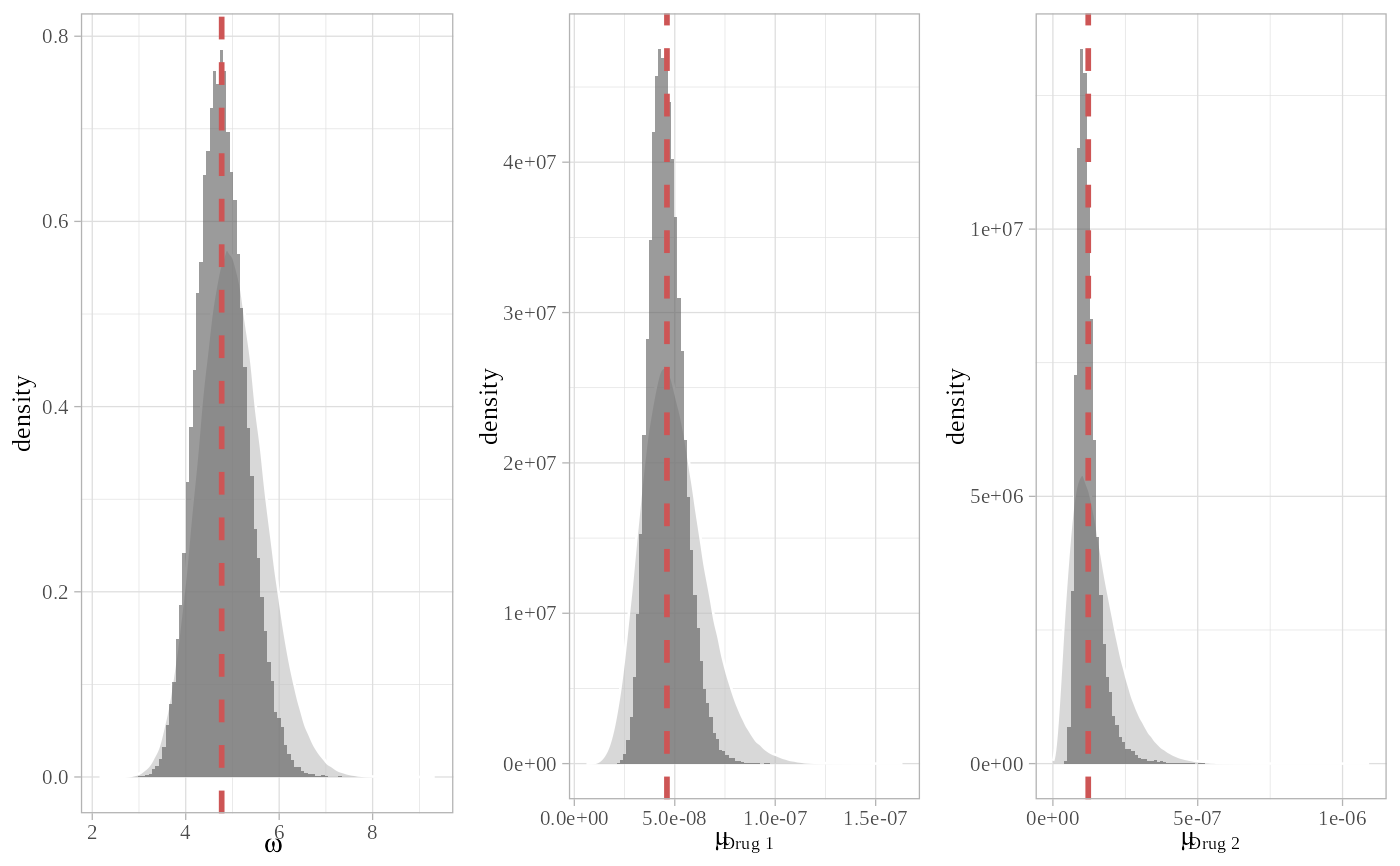
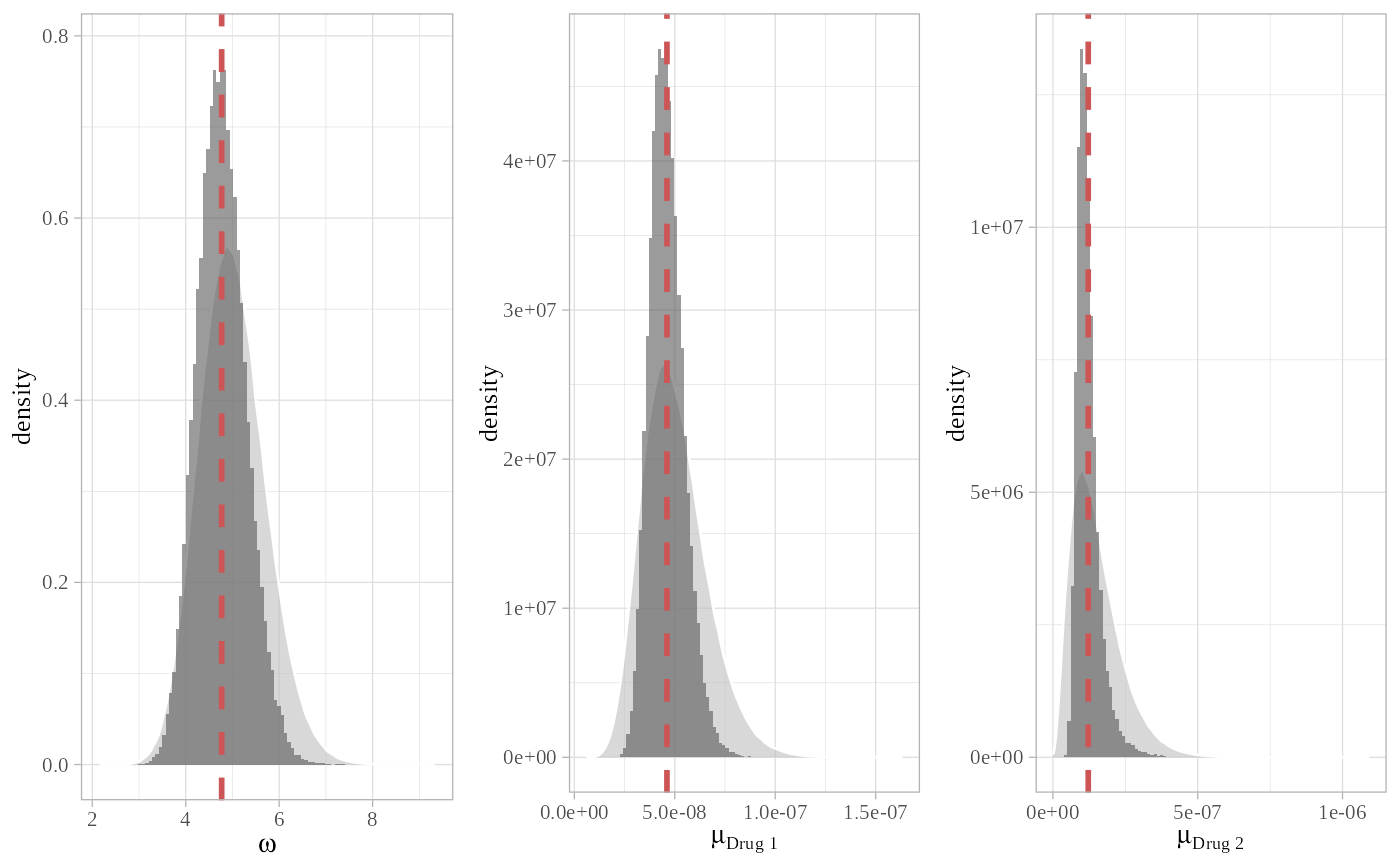
Deploying to gh-pages from @ caravagnalab/TOSCA@5b8a1e655bf0e0709501f8a275ec625be68dce8a 🚀

diff --git a/404.html b/404.html
@@ -12,8 +12,8 @@
 <link rel="icon" sizes="any" href="https://caravagnalab.github.io/TOSCA/favicon.ico">
 <link rel="manifest" href="https://caravagnalab.github.io/TOSCA/site.webmanifest">
 <script src="https://caravagnalab.github.io/TOSCA/deps/jquery-3.6.0/jquery-3.6.0.min.js"></script><meta name="viewport" content="width=device-width, initial-scale=1, shrink-to-fit=no">
-<link href="https://caravagnalab.github.io/TOSCA/deps/bootstrap-5.3.1/bootstrap.min.css" rel="stylesheet">
-<script src="https://caravagnalab.github.io/TOSCA/deps/bootstrap-5.3.1/bootstrap.bundle.min.js"></script><link href="https://caravagnalab.github.io/TOSCA/deps/font-awesome-6.5.2/css/all.min.css" rel="stylesheet">
+<link href="https://caravagnalab.github.io/TOSCA/deps/bootstrap-5.3.8/bootstrap.min.css" rel="stylesheet">
+<script src="https://caravagnalab.github.io/TOSCA/deps/bootstrap-5.3.8/bootstrap.bundle.min.js"></script><link href="https://caravagnalab.github.io/TOSCA/deps/font-awesome-6.5.2/css/all.min.css" rel="stylesheet">
 <link href="https://caravagnalab.github.io/TOSCA/deps/font-awesome-6.5.2/css/v4-shims.min.css" rel="stylesheet">
 <script src="https://caravagnalab.github.io/TOSCA/deps/headroom-0.11.0/headroom.min.js"></script><script src="https://caravagnalab.github.io/TOSCA/deps/headroom-0.11.0/jQuery.headroom.min.js"></script><script src="https://caravagnalab.github.io/TOSCA/deps/bootstrap-toc-1.0.1/bootstrap-toc.min.js"></script><script src="https://caravagnalab.github.io/TOSCA/deps/clipboard.js-2.0.11/clipboard.min.js"></script><script src="https://caravagnalab.github.io/TOSCA/deps/search-1.0.0/autocomplete.jquery.min.js"></script><script src="https://caravagnalab.github.io/TOSCA/deps/search-1.0.0/fuse.min.js"></script><script src="https://caravagnalab.github.io/TOSCA/deps/search-1.0.0/mark.min.js"></script><!-- pkgdown --><script src="https://caravagnalab.github.io/TOSCA/pkgdown.js"></script><meta property="og:title" content="Page not found (404)">
 <meta property="og:image" content="https://caravagnalab.github.io/TOSCA/logo.png">

diff --git a/articles/Timing_of_CNAs.html b/articles/Timing_of_CNAs.html
@@ -12,8 +12,8 @@
 <link rel="icon" sizes="any" href="../favicon.ico">
 <link rel="manifest" href="../site.webmanifest">
 <script src="../deps/jquery-3.6.0/jquery-3.6.0.min.js"></script><meta name="viewport" content="width=device-width, initial-scale=1, shrink-to-fit=no">
-<link href="../deps/bootstrap-5.3.1/bootstrap.min.css" rel="stylesheet">
-<script src="../deps/bootstrap-5.3.1/bootstrap.bundle.min.js"></script><link href="../deps/font-awesome-6.5.2/css/all.min.css" rel="stylesheet">
+<link href="../deps/bootstrap-5.3.8/bootstrap.min.css" rel="stylesheet">
+<script src="../deps/bootstrap-5.3.8/bootstrap.bundle.min.js"></script><link href="../deps/font-awesome-6.5.2/css/all.min.css" rel="stylesheet">
 <link href="../deps/font-awesome-6.5.2/css/v4-shims.min.css" rel="stylesheet">
 <script src="../deps/headroom-0.11.0/headroom.min.js"></script><script src="../deps/headroom-0.11.0/jQuery.headroom.min.js"></script><script src="../deps/bootstrap-toc-1.0.1/bootstrap-toc.min.js"></script><script src="../deps/clipboard.js-2.0.11/clipboard.min.js"></script><script src="../deps/search-1.0.0/autocomplete.jquery.min.js"></script><script src="../deps/search-1.0.0/fuse.min.js"></script><script src="../deps/search-1.0.0/mark.min.js"></script><!-- pkgdown --><script src="../pkgdown.js"></script><meta property="og:title" content="Timing of CNAs">
 </head>

diff --git a/articles/Timing_of_Driver.html b/articles/Timing_of_Driver.html
@@ -12,8 +12,8 @@
 <link rel="icon" sizes="any" href="../favicon.ico">
 <link rel="manifest" href="../site.webmanifest">
 <script src="../deps/jquery-3.6.0/jquery-3.6.0.min.js"></script><meta name="viewport" content="width=device-width, initial-scale=1, shrink-to-fit=no">
-<link href="../deps/bootstrap-5.3.1/bootstrap.min.css" rel="stylesheet">
-<script src="../deps/bootstrap-5.3.1/bootstrap.bundle.min.js"></script><link href="../deps/font-awesome-6.5.2/css/all.min.css" rel="stylesheet">
+<link href="../deps/bootstrap-5.3.8/bootstrap.min.css" rel="stylesheet">
+<script src="../deps/bootstrap-5.3.8/bootstrap.bundle.min.js"></script><link href="../deps/font-awesome-6.5.2/css/all.min.css" rel="stylesheet">
 <link href="../deps/font-awesome-6.5.2/css/v4-shims.min.css" rel="stylesheet">
 <script src="../deps/headroom-0.11.0/headroom.min.js"></script><script src="../deps/headroom-0.11.0/jQuery.headroom.min.js"></script><script src="../deps/bootstrap-toc-1.0.1/bootstrap-toc.min.js"></script><script src="../deps/clipboard.js-2.0.11/clipboard.min.js"></script><script src="../deps/search-1.0.0/autocomplete.jquery.min.js"></script><script src="../deps/search-1.0.0/fuse.min.js"></script><script src="../deps/search-1.0.0/mark.min.js"></script><!-- pkgdown --><script src="../pkgdown.js"></script><meta property="og:title" content="Timing of Driver">
 </head>

diff --git a/index.html b/index.html
@@ -12,8 +12,8 @@
 <link rel="icon" sizes="any" href="favicon.ico">
 <link rel="manifest" href="site.webmanifest">
 <script src="deps/jquery-3.6.0/jquery-3.6.0.min.js"></script><meta name="viewport" content="width=device-width, initial-scale=1, shrink-to-fit=no">
-<link href="deps/bootstrap-5.3.1/bootstrap.min.css" rel="stylesheet">
-<script src="deps/bootstrap-5.3.1/bootstrap.bundle.min.js"></script><link href="deps/font-awesome-6.5.2/css/all.min.css" rel="stylesheet">
+<link href="deps/bootstrap-5.3.8/bootstrap.min.css" rel="stylesheet">
+<script src="deps/bootstrap-5.3.8/bootstrap.bundle.min.js"></script><link href="deps/font-awesome-6.5.2/css/all.min.css" rel="stylesheet">
 <link href="deps/font-awesome-6.5.2/css/v4-shims.min.css" rel="stylesheet">
 <script src="deps/headroom-0.11.0/headroom.min.js"></script><script src="deps/headroom-0.11.0/jQuery.headroom.min.js"></script><script src="deps/bootstrap-toc-1.0.1/bootstrap-toc.min.js"></script><script src="deps/clipboard.js-2.0.11/clipboard.min.js"></script><script src="deps/search-1.0.0/autocomplete.jquery.min.js"></script><script src="deps/search-1.0.0/fuse.min.js"></script><script src="deps/search-1.0.0/mark.min.js"></script><!-- pkgdown --><script src="pkgdown.js"></script><meta property="og:title" content="TOSCA - Timing Of Somatic Copy number Alterations">
 <meta name="description" content="TOSCA is a packege for inferring the timing in real time of clonal and subclonal somatic copy numbers (SCNA) of type 2:0, 2:1 and 2:2, from WGS longitudinal data.">

diff --git a/reference/plot_ppc.html b/reference/plot_ppc.html
@@ -1,5 +1,5 @@
 <!DOCTYPE html>
-<!-- Generated by pkgdown: do not edit by hand --><html lang="en"><head><meta http-equiv="Content-Type" content="text/html; charset=UTF-8"><meta charset="utf-8"><meta http-equiv="X-UA-Compatible" content="IE=edge"><meta name="viewport" content="width=device-width, initial-scale=1, shrink-to-fit=no"><title>Plot posterior predictive checks — plot_ppc • TOSCA</title><!-- favicons --><link rel="icon" type="image/png" sizes="96x96" href="../favicon-96x96.png"><link rel="icon" type="”image/svg+xml”" href="../favicon.svg"><link rel="apple-touch-icon" sizes="180x180" href="../apple-touch-icon.png"><link rel="icon" sizes="any" href="../favicon.ico"><link rel="manifest" href="../site.webmanifest"><script src="../deps/jquery-3.6.0/jquery-3.6.0.min.js"></script><meta name="viewport" content="width=device-width, initial-scale=1, shrink-to-fit=no"><link href="../deps/bootstrap-5.3.1/bootstrap.min.css" rel="stylesheet"><script src="../deps/bootstrap-5.3.1/bootstrap.bundle.min.js"></script><link href="../deps/font-awesome-6.5.2/css/all.min.css" rel="stylesheet"><link href="../deps/font-awesome-6.5.2/css/v4-shims.min.css" rel="stylesheet"><script src="../deps/headroom-0.11.0/headroom.min.js"></script><script src="../deps/headroom-0.11.0/jQuery.headroom.min.js"></script><script src="../deps/bootstrap-toc-1.0.1/bootstrap-toc.min.js"></script><script src="../deps/clipboard.js-2.0.11/clipboard.min.js"></script><script src="../deps/search-1.0.0/autocomplete.jquery.min.js"></script><script src="../deps/search-1.0.0/fuse.min.js"></script><script src="../deps/search-1.0.0/mark.min.js"></script><!-- pkgdown --><script src="../pkgdown.js"></script><meta property="og:title" content="Plot posterior predictive checks — plot_ppc"><meta name="description" content="Plot posterior predictive checks"><meta property="og:description" content="Plot posterior predictive checks"><meta property="og:image" content="https://caravagnalab.github.io/TOSCA/logo.png"></head><body>
+<!-- Generated by pkgdown: do not edit by hand --><html lang="en"><head><meta http-equiv="Content-Type" content="text/html; charset=UTF-8"><meta charset="utf-8"><meta http-equiv="X-UA-Compatible" content="IE=edge"><meta name="viewport" content="width=device-width, initial-scale=1, shrink-to-fit=no"><title>Plot posterior predictive checks — plot_ppc • TOSCA</title><!-- favicons --><link rel="icon" type="image/png" sizes="96x96" href="../favicon-96x96.png"><link rel="icon" type="”image/svg+xml”" href="../favicon.svg"><link rel="apple-touch-icon" sizes="180x180" href="../apple-touch-icon.png"><link rel="icon" sizes="any" href="../favicon.ico"><link rel="manifest" href="../site.webmanifest"><script src="../deps/jquery-3.6.0/jquery-3.6.0.min.js"></script><meta name="viewport" content="width=device-width, initial-scale=1, shrink-to-fit=no"><link href="../deps/bootstrap-5.3.8/bootstrap.min.css" rel="stylesheet"><script src="../deps/bootstrap-5.3.8/bootstrap.bundle.min.js"></script><link href="../deps/font-awesome-6.5.2/css/all.min.css" rel="stylesheet"><link href="../deps/font-awesome-6.5.2/css/v4-shims.min.css" rel="stylesheet"><script src="../deps/headroom-0.11.0/headroom.min.js"></script><script src="../deps/headroom-0.11.0/jQuery.headroom.min.js"></script><script src="../deps/bootstrap-toc-1.0.1/bootstrap-toc.min.js"></script><script src="../deps/clipboard.js-2.0.11/clipboard.min.js"></script><script src="../deps/search-1.0.0/autocomplete.jquery.min.js"></script><script src="../deps/search-1.0.0/fuse.min.js"></script><script src="../deps/search-1.0.0/mark.min.js"></script><!-- pkgdown --><script src="../pkgdown.js"></script><meta property="og:title" content="Plot posterior predictive checks — plot_ppc"><meta name="description" content="Plot posterior predictive checks"><meta property="og:description" content="Plot posterior predictive checks"><meta property="og:image" content="https://caravagnalab.github.io/TOSCA/logo.png"></head><body>
     <a href="#main" class="visually-hidden-focusable">Skip to contents</a>
 
 
@@ -100,7 +100,6 @@
 <span class="r-wrn co"><span class="r-pr">#&gt;</span> <span style="color: #BB0000;">✖</span> Problematic argument:</span>
 <span class="r-wrn co"><span class="r-pr">#&gt;</span> <span style="color: #00BBBB;">•</span> size = 0.05</span>
 <span class="r-wrn co"><span class="r-pr">#&gt;</span> <span style="color: #00BBBB;">ℹ</span> Did you misspell an argument name?</span>
-<span class="r-wrn co"><span class="r-pr">#&gt;</span> <span class="warning">Warning: </span>font family 'Times New Roman' not found in PostScript font database</span>
 <span class="r-wrn co"><span class="r-pr">#&gt;</span> <span class="warning">Warning: </span>font family 'Times New Roman' not found in PostScript font database</span>
 <span class="r-wrn co"><span class="r-pr">#&gt;</span> <span class="warning">Warning: </span>font family 'Times New Roman' not found in PostScript font database</span>
 <span class="r-wrn co"><span class="r-pr">#&gt;</span> <span class="warning">Warning: </span>font family 'Times New Roman' not found in PostScript font database</span>

diff --git a/LICENSE-text.html b/LICENSE-text.html
@@ -1,5 +1,5 @@
 <!DOCTYPE html>
-<!-- Generated by pkgdown: do not edit by hand --><html lang="en"><head><meta http-equiv="Content-Type" content="text/html; charset=UTF-8"><meta charset="utf-8"><meta http-equiv="X-UA-Compatible" content="IE=edge"><meta name="viewport" content="width=device-width, initial-scale=1, shrink-to-fit=no"><title>License • TOSCA</title><!-- favicons --><link rel="icon" type="image/png" sizes="96x96" href="favicon-96x96.png"><link rel="icon" type="”image/svg+xml”" href="favicon.svg"><link rel="apple-touch-icon" sizes="180x180" href="apple-touch-icon.png"><link rel="icon" sizes="any" href="favicon.ico"><link rel="manifest" href="site.webmanifest"><script src="deps/jquery-3.6.0/jquery-3.6.0.min.js"></script><meta name="viewport" content="width=device-width, initial-scale=1, shrink-to-fit=no"><link href="deps/bootstrap-5.3.1/bootstrap.min.css" rel="stylesheet"><script src="deps/bootstrap-5.3.1/bootstrap.bundle.min.js"></script><link href="deps/font-awesome-6.5.2/css/all.min.css" rel="stylesheet"><link href="deps/font-awesome-6.5.2/css/v4-shims.min.css" rel="stylesheet"><script src="deps/headroom-0.11.0/headroom.min.js"></script><script src="deps/headroom-0.11.0/jQuery.headroom.min.js"></script><script src="deps/bootstrap-toc-1.0.1/bootstrap-toc.min.js"></script><script src="deps/clipboard.js-2.0.11/clipboard.min.js"></script><script src="deps/search-1.0.0/autocomplete.jquery.min.js"></script><script src="deps/search-1.0.0/fuse.min.js"></script><script src="deps/search-1.0.0/mark.min.js"></script><!-- pkgdown --><script src="pkgdown.js"></script><meta property="og:title" content="License"><meta property="og:image" content="https://caravagnalab.github.io/TOSCA/logo.png"></head><body>
+<!-- Generated by pkgdown: do not edit by hand --><html lang="en"><head><meta http-equiv="Content-Type" content="text/html; charset=UTF-8"><meta charset="utf-8"><meta http-equiv="X-UA-Compatible" content="IE=edge"><meta name="viewport" content="width=device-width, initial-scale=1, shrink-to-fit=no"><title>License • TOSCA</title><!-- favicons --><link rel="icon" type="image/png" sizes="96x96" href="favicon-96x96.png"><link rel="icon" type="”image/svg+xml”" href="favicon.svg"><link rel="apple-touch-icon" sizes="180x180" href="apple-touch-icon.png"><link rel="icon" sizes="any" href="favicon.ico"><link rel="manifest" href="site.webmanifest"><script src="deps/jquery-3.6.0/jquery-3.6.0.min.js"></script><meta name="viewport" content="width=device-width, initial-scale=1, shrink-to-fit=no"><link href="deps/bootstrap-5.3.8/bootstrap.min.css" rel="stylesheet"><script src="deps/bootstrap-5.3.8/bootstrap.bundle.min.js"></script><link href="deps/font-awesome-6.5.2/css/all.min.css" rel="stylesheet"><link href="deps/font-awesome-6.5.2/css/v4-shims.min.css" rel="stylesheet"><script src="deps/headroom-0.11.0/headroom.min.js"></script><script src="deps/headroom-0.11.0/jQuery.headroom.min.js"></script><script src="deps/bootstrap-toc-1.0.1/bootstrap-toc.min.js"></script><script src="deps/clipboard.js-2.0.11/clipboard.min.js"></script><script src="deps/search-1.0.0/autocomplete.jquery.min.js"></script><script src="deps/search-1.0.0/fuse.min.js"></script><script src="deps/search-1.0.0/mark.min.js"></script><!-- pkgdown --><script src="pkgdown.js"></script><meta property="og:title" content="License"><meta property="og:image" content="https://caravagnalab.github.io/TOSCA/logo.png"></head><body>
     <a href="#main" class="visually-hidden-focusable">Skip to contents</a>
 
 

diff --git a/LICENSE.html b/LICENSE.html
@@ -1,5 +1,5 @@
 <!DOCTYPE html>
-<!-- Generated by pkgdown: do not edit by hand --><html lang="en"><head><meta http-equiv="Content-Type" content="text/html; charset=UTF-8"><meta charset="utf-8"><meta http-equiv="X-UA-Compatible" content="IE=edge"><meta name="viewport" content="width=device-width, initial-scale=1, shrink-to-fit=no"><title>MIT License • TOSCA</title><!-- favicons --><link rel="icon" type="image/png" sizes="96x96" href="favicon-96x96.png"><link rel="icon" type="”image/svg+xml”" href="favicon.svg"><link rel="apple-touch-icon" sizes="180x180" href="apple-touch-icon.png"><link rel="icon" sizes="any" href="favicon.ico"><link rel="manifest" href="site.webmanifest"><script src="deps/jquery-3.6.0/jquery-3.6.0.min.js"></script><meta name="viewport" content="width=device-width, initial-scale=1, shrink-to-fit=no"><link href="deps/bootstrap-5.3.1/bootstrap.min.css" rel="stylesheet"><script src="deps/bootstrap-5.3.1/bootstrap.bundle.min.js"></script><link href="deps/font-awesome-6.5.2/css/all.min.css" rel="stylesheet"><link href="deps/font-awesome-6.5.2/css/v4-shims.min.css" rel="stylesheet"><script src="deps/headroom-0.11.0/headroom.min.js"></script><script src="deps/headroom-0.11.0/jQuery.headroom.min.js"></script><script src="deps/bootstrap-toc-1.0.1/bootstrap-toc.min.js"></script><script src="deps/clipboard.js-2.0.11/clipboard.min.js"></script><script src="deps/search-1.0.0/autocomplete.jquery.min.js"></script><script src="deps/search-1.0.0/fuse.min.js"></script><script src="deps/search-1.0.0/mark.min.js"></script><!-- pkgdown --><script src="pkgdown.js"></script><meta property="og:title" content="MIT License"><meta property="og:image" content="https://caravagnalab.github.io/TOSCA/logo.png"></head><body>
+<!-- Generated by pkgdown: do not edit by hand --><html lang="en"><head><meta http-equiv="Content-Type" content="text/html; charset=UTF-8"><meta charset="utf-8"><meta http-equiv="X-UA-Compatible" content="IE=edge"><meta name="viewport" content="width=device-width, initial-scale=1, shrink-to-fit=no"><title>MIT License • TOSCA</title><!-- favicons --><link rel="icon" type="image/png" sizes="96x96" href="favicon-96x96.png"><link rel="icon" type="”image/svg+xml”" href="favicon.svg"><link rel="apple-touch-icon" sizes="180x180" href="apple-touch-icon.png"><link rel="icon" sizes="any" href="favicon.ico"><link rel="manifest" href="site.webmanifest"><script src="deps/jquery-3.6.0/jquery-3.6.0.min.js"></script><meta name="viewport" content="width=device-width, initial-scale=1, shrink-to-fit=no"><link href="deps/bootstrap-5.3.8/bootstrap.min.css" rel="stylesheet"><script src="deps/bootstrap-5.3.8/bootstrap.bundle.min.js"></script><link href="deps/font-awesome-6.5.2/css/all.min.css" rel="stylesheet"><link href="deps/font-awesome-6.5.2/css/v4-shims.min.css" rel="stylesheet"><script src="deps/headroom-0.11.0/headroom.min.js"></script><script src="deps/headroom-0.11.0/jQuery.headroom.min.js"></script><script src="deps/bootstrap-toc-1.0.1/bootstrap-toc.min.js"></script><script src="deps/clipboard.js-2.0.11/clipboard.min.js"></script><script src="deps/search-1.0.0/autocomplete.jquery.min.js"></script><script src="deps/search-1.0.0/fuse.min.js"></script><script src="deps/search-1.0.0/mark.min.js"></script><!-- pkgdown --><script src="pkgdown.js"></script><meta property="og:title" content="MIT License"><meta property="og:image" content="https://caravagnalab.github.io/TOSCA/logo.png"></head><body>
     <a href="#main" class="visually-hidden-focusable">Skip to contents</a>
 
 

diff --git a/articles/index.html b/articles/index.html
@@ -1,5 +1,5 @@
 <!DOCTYPE html>
-<!-- Generated by pkgdown: do not edit by hand --><html lang="en"><head><meta http-equiv="Content-Type" content="text/html; charset=UTF-8"><meta charset="utf-8"><meta http-equiv="X-UA-Compatible" content="IE=edge"><meta name="viewport" content="width=device-width, initial-scale=1, shrink-to-fit=no"><title>Articles • TOSCA</title><!-- favicons --><link rel="icon" type="image/png" sizes="96x96" href="../favicon-96x96.png"><link rel="icon" type="”image/svg+xml”" href="../favicon.svg"><link rel="apple-touch-icon" sizes="180x180" href="../apple-touch-icon.png"><link rel="icon" sizes="any" href="../favicon.ico"><link rel="manifest" href="../site.webmanifest"><script src="../deps/jquery-3.6.0/jquery-3.6.0.min.js"></script><meta name="viewport" content="width=device-width, initial-scale=1, shrink-to-fit=no"><link href="../deps/bootstrap-5.3.1/bootstrap.min.css" rel="stylesheet"><script src="../deps/bootstrap-5.3.1/bootstrap.bundle.min.js"></script><link href="../deps/font-awesome-6.5.2/css/all.min.css" rel="stylesheet"><link href="../deps/font-awesome-6.5.2/css/v4-shims.min.css" rel="stylesheet"><script src="../deps/headroom-0.11.0/headroom.min.js"></script><script src="../deps/headroom-0.11.0/jQuery.headroom.min.js"></script><script src="../deps/bootstrap-toc-1.0.1/bootstrap-toc.min.js"></script><script src="../deps/clipboard.js-2.0.11/clipboard.min.js"></script><script src="../deps/search-1.0.0/autocomplete.jquery.min.js"></script><script src="../deps/search-1.0.0/fuse.min.js"></script><script src="../deps/search-1.0.0/mark.min.js"></script><!-- pkgdown --><script src="../pkgdown.js"></script><meta property="og:title" content="Articles"><meta property="og:image" content="https://caravagnalab.github.io/TOSCA/logo.png"></head><body>
+<!-- Generated by pkgdown: do not edit by hand --><html lang="en"><head><meta http-equiv="Content-Type" content="text/html; charset=UTF-8"><meta charset="utf-8"><meta http-equiv="X-UA-Compatible" content="IE=edge"><meta name="viewport" content="width=device-width, initial-scale=1, shrink-to-fit=no"><title>Articles • TOSCA</title><!-- favicons --><link rel="icon" type="image/png" sizes="96x96" href="../favicon-96x96.png"><link rel="icon" type="”image/svg+xml”" href="../favicon.svg"><link rel="apple-touch-icon" sizes="180x180" href="../apple-touch-icon.png"><link rel="icon" sizes="any" href="../favicon.ico"><link rel="manifest" href="../site.webmanifest"><script src="../deps/jquery-3.6.0/jquery-3.6.0.min.js"></script><meta name="viewport" content="width=device-width, initial-scale=1, shrink-to-fit=no"><link href="../deps/bootstrap-5.3.8/bootstrap.min.css" rel="stylesheet"><script src="../deps/bootstrap-5.3.8/bootstrap.bundle.min.js"></script><link href="../deps/font-awesome-6.5.2/css/all.min.css" rel="stylesheet"><link href="../deps/font-awesome-6.5.2/css/v4-shims.min.css" rel="stylesheet"><script src="../deps/headroom-0.11.0/headroom.min.js"></script><script src="../deps/headroom-0.11.0/jQuery.headroom.min.js"></script><script src="../deps/bootstrap-toc-1.0.1/bootstrap-toc.min.js"></script><script src="../deps/clipboard.js-2.0.11/clipboard.min.js"></script><script src="../deps/search-1.0.0/autocomplete.jquery.min.js"></script><script src="../deps/search-1.0.0/fuse.min.js"></script><script src="../deps/search-1.0.0/mark.min.js"></script><!-- pkgdown --><script src="../pkgdown.js"></script><meta property="og:title" content="Articles"><meta property="og:image" content="https://caravagnalab.github.io/TOSCA/logo.png"></head><body>
     <a href="#main" class="visually-hidden-focusable">Skip to contents</a>
 
 

diff --git a/authors.html b/authors.html
@@ -1,5 +1,5 @@
 <!DOCTYPE html>
-<!-- Generated by pkgdown: do not edit by hand --><html lang="en"><head><meta http-equiv="Content-Type" content="text/html; charset=UTF-8"><meta charset="utf-8"><meta http-equiv="X-UA-Compatible" content="IE=edge"><meta name="viewport" content="width=device-width, initial-scale=1, shrink-to-fit=no"><title>Authors and Citation • TOSCA</title><!-- favicons --><link rel="icon" type="image/png" sizes="96x96" href="favicon-96x96.png"><link rel="icon" type="”image/svg+xml”" href="favicon.svg"><link rel="apple-touch-icon" sizes="180x180" href="apple-touch-icon.png"><link rel="icon" sizes="any" href="favicon.ico"><link rel="manifest" href="site.webmanifest"><script src="deps/jquery-3.6.0/jquery-3.6.0.min.js"></script><meta name="viewport" content="width=device-width, initial-scale=1, shrink-to-fit=no"><link href="deps/bootstrap-5.3.1/bootstrap.min.css" rel="stylesheet"><script src="deps/bootstrap-5.3.1/bootstrap.bundle.min.js"></script><link href="deps/font-awesome-6.5.2/css/all.min.css" rel="stylesheet"><link href="deps/font-awesome-6.5.2/css/v4-shims.min.css" rel="stylesheet"><script src="deps/headroom-0.11.0/headroom.min.js"></script><script src="deps/headroom-0.11.0/jQuery.headroom.min.js"></script><script src="deps/bootstrap-toc-1.0.1/bootstrap-toc.min.js"></script><script src="deps/clipboard.js-2.0.11/clipboard.min.js"></script><script src="deps/search-1.0.0/autocomplete.jquery.min.js"></script><script src="deps/search-1.0.0/fuse.min.js"></script><script src="deps/search-1.0.0/mark.min.js"></script><!-- pkgdown --><script src="pkgdown.js"></script><meta property="og:title" content="Authors and Citation"><meta property="og:image" content="https://caravagnalab.github.io/TOSCA/logo.png"></head><body>
+<!-- Generated by pkgdown: do not edit by hand --><html lang="en"><head><meta http-equiv="Content-Type" content="text/html; charset=UTF-8"><meta charset="utf-8"><meta http-equiv="X-UA-Compatible" content="IE=edge"><meta name="viewport" content="width=device-width, initial-scale=1, shrink-to-fit=no"><title>Authors and Citation • TOSCA</title><!-- favicons --><link rel="icon" type="image/png" sizes="96x96" href="favicon-96x96.png"><link rel="icon" type="”image/svg+xml”" href="favicon.svg"><link rel="apple-touch-icon" sizes="180x180" href="apple-touch-icon.png"><link rel="icon" sizes="any" href="favicon.ico"><link rel="manifest" href="site.webmanifest"><script src="deps/jquery-3.6.0/jquery-3.6.0.min.js"></script><meta name="viewport" content="width=device-width, initial-scale=1, shrink-to-fit=no"><link href="deps/bootstrap-5.3.8/bootstrap.min.css" rel="stylesheet"><script src="deps/bootstrap-5.3.8/bootstrap.bundle.min.js"></script><link href="deps/font-awesome-6.5.2/css/all.min.css" rel="stylesheet"><link href="deps/font-awesome-6.5.2/css/v4-shims.min.css" rel="stylesheet"><script src="deps/headroom-0.11.0/headroom.min.js"></script><script src="deps/headroom-0.11.0/jQuery.headroom.min.js"></script><script src="deps/bootstrap-toc-1.0.1/bootstrap-toc.min.js"></script><script src="deps/clipboard.js-2.0.11/clipboard.min.js"></script><script src="deps/search-1.0.0/autocomplete.jquery.min.js"></script><script src="deps/search-1.0.0/fuse.min.js"></script><script src="deps/search-1.0.0/mark.min.js"></script><!-- pkgdown --><script src="pkgdown.js"></script><meta property="og:title" content="Authors and Citation"><meta property="og:image" content="https://caravagnalab.github.io/TOSCA/logo.png"></head><body>
     <a href="#main" class="visually-hidden-focusable">Skip to contents</a>
 
 

diff --git a/reference/D9MRCY.html b/reference/D9MRCY.html
@@ -1,5 +1,5 @@
 <!DOCTYPE html>
-<!-- Generated by pkgdown: do not edit by hand --><html lang="en"><head><meta http-equiv="Content-Type" content="text/html; charset=UTF-8"><meta charset="utf-8"><meta http-equiv="X-UA-Compatible" content="IE=edge"><meta name="viewport" content="width=device-width, initial-scale=1, shrink-to-fit=no"><title>Input data for patient D9MRCY — D9MRCY • TOSCA</title><!-- favicons --><link rel="icon" type="image/png" sizes="96x96" href="../favicon-96x96.png"><link rel="icon" type="”image/svg+xml”" href="../favicon.svg"><link rel="apple-touch-icon" sizes="180x180" href="../apple-touch-icon.png"><link rel="icon" sizes="any" href="../favicon.ico"><link rel="manifest" href="../site.webmanifest"><script src="../deps/jquery-3.6.0/jquery-3.6.0.min.js"></script><meta name="viewport" content="width=device-width, initial-scale=1, shrink-to-fit=no"><link href="../deps/bootstrap-5.3.1/bootstrap.min.css" rel="stylesheet"><script src="../deps/bootstrap-5.3.1/bootstrap.bundle.min.js"></script><link href="../deps/font-awesome-6.5.2/css/all.min.css" rel="stylesheet"><link href="../deps/font-awesome-6.5.2/css/v4-shims.min.css" rel="stylesheet"><script src="../deps/headroom-0.11.0/headroom.min.js"></script><script src="../deps/headroom-0.11.0/jQuery.headroom.min.js"></script><script src="../deps/bootstrap-toc-1.0.1/bootstrap-toc.min.js"></script><script src="../deps/clipboard.js-2.0.11/clipboard.min.js"></script><script src="../deps/search-1.0.0/autocomplete.jquery.min.js"></script><script src="../deps/search-1.0.0/fuse.min.js"></script><script src="../deps/search-1.0.0/mark.min.js"></script><!-- pkgdown --><script src="../pkgdown.js"></script><meta property="og:title" content="Input data for patient D9MRCY — D9MRCY"><meta name="description" content="Input data for patient D9MRCY"><meta property="og:description" content="Input data for patient D9MRCY"><meta property="og:image" content="https://caravagnalab.github.io/TOSCA/logo.png"></head><body>
+<!-- Generated by pkgdown: do not edit by hand --><html lang="en"><head><meta http-equiv="Content-Type" content="text/html; charset=UTF-8"><meta charset="utf-8"><meta http-equiv="X-UA-Compatible" content="IE=edge"><meta name="viewport" content="width=device-width, initial-scale=1, shrink-to-fit=no"><title>Input data for patient D9MRCY — D9MRCY • TOSCA</title><!-- favicons --><link rel="icon" type="image/png" sizes="96x96" href="../favicon-96x96.png"><link rel="icon" type="”image/svg+xml”" href="../favicon.svg"><link rel="apple-touch-icon" sizes="180x180" href="../apple-touch-icon.png"><link rel="icon" sizes="any" href="../favicon.ico"><link rel="manifest" href="../site.webmanifest"><script src="../deps/jquery-3.6.0/jquery-3.6.0.min.js"></script><meta name="viewport" content="width=device-width, initial-scale=1, shrink-to-fit=no"><link href="../deps/bootstrap-5.3.8/bootstrap.min.css" rel="stylesheet"><script src="../deps/bootstrap-5.3.8/bootstrap.bundle.min.js"></script><link href="../deps/font-awesome-6.5.2/css/all.min.css" rel="stylesheet"><link href="../deps/font-awesome-6.5.2/css/v4-shims.min.css" rel="stylesheet"><script src="../deps/headroom-0.11.0/headroom.min.js"></script><script src="../deps/headroom-0.11.0/jQuery.headroom.min.js"></script><script src="../deps/bootstrap-toc-1.0.1/bootstrap-toc.min.js"></script><script src="../deps/clipboard.js-2.0.11/clipboard.min.js"></script><script src="../deps/search-1.0.0/autocomplete.jquery.min.js"></script><script src="../deps/search-1.0.0/fuse.min.js"></script><script src="../deps/search-1.0.0/mark.min.js"></script><!-- pkgdown --><script src="../pkgdown.js"></script><meta property="og:title" content="Input data for patient D9MRCY — D9MRCY"><meta name="description" content="Input data for patient D9MRCY"><meta property="og:description" content="Input data for patient D9MRCY"><meta property="og:image" content="https://caravagnalab.github.io/TOSCA/logo.png"></head><body>
     <a href="#main" class="visually-hidden-focusable">Skip to contents</a>
 
 

diff --git a/reference/TOSCA-package-imports.html b/reference/TOSCA-package-imports.html
@@ -1,5 +1,5 @@
 <!DOCTYPE html>
-<!-- Generated by pkgdown: do not edit by hand --><html lang="en"><head><meta http-equiv="Content-Type" content="text/html; charset=UTF-8"><meta charset="utf-8"><meta http-equiv="X-UA-Compatible" content="IE=edge"><meta name="viewport" content="width=device-width, initial-scale=1, shrink-to-fit=no"><title>Package-level imports — TOSCA-package-imports • TOSCA</title><!-- favicons --><link rel="icon" type="image/png" sizes="96x96" href="../favicon-96x96.png"><link rel="icon" type="”image/svg+xml”" href="../favicon.svg"><link rel="apple-touch-icon" sizes="180x180" href="../apple-touch-icon.png"><link rel="icon" sizes="any" href="../favicon.ico"><link rel="manifest" href="../site.webmanifest"><script src="../deps/jquery-3.6.0/jquery-3.6.0.min.js"></script><meta name="viewport" content="width=device-width, initial-scale=1, shrink-to-fit=no"><link href="../deps/bootstrap-5.3.1/bootstrap.min.css" rel="stylesheet"><script src="../deps/bootstrap-5.3.1/bootstrap.bundle.min.js"></script><link href="../deps/font-awesome-6.5.2/css/all.min.css" rel="stylesheet"><link href="../deps/font-awesome-6.5.2/css/v4-shims.min.css" rel="stylesheet"><script src="../deps/headroom-0.11.0/headroom.min.js"></script><script src="../deps/headroom-0.11.0/jQuery.headroom.min.js"></script><script src="../deps/bootstrap-toc-1.0.1/bootstrap-toc.min.js"></script><script src="../deps/clipboard.js-2.0.11/clipboard.min.js"></script><script src="../deps/search-1.0.0/autocomplete.jquery.min.js"></script><script src="../deps/search-1.0.0/fuse.min.js"></script><script src="../deps/search-1.0.0/mark.min.js"></script><!-- pkgdown --><script src="../pkgdown.js"></script><meta property="og:title" content="Package-level imports — TOSCA-package-imports"><meta name="description" content="Import functions for all package functions.
+<!-- Generated by pkgdown: do not edit by hand --><html lang="en"><head><meta http-equiv="Content-Type" content="text/html; charset=UTF-8"><meta charset="utf-8"><meta http-equiv="X-UA-Compatible" content="IE=edge"><meta name="viewport" content="width=device-width, initial-scale=1, shrink-to-fit=no"><title>Package-level imports — TOSCA-package-imports • TOSCA</title><!-- favicons --><link rel="icon" type="image/png" sizes="96x96" href="../favicon-96x96.png"><link rel="icon" type="”image/svg+xml”" href="../favicon.svg"><link rel="apple-touch-icon" sizes="180x180" href="../apple-touch-icon.png"><link rel="icon" sizes="any" href="../favicon.ico"><link rel="manifest" href="../site.webmanifest"><script src="../deps/jquery-3.6.0/jquery-3.6.0.min.js"></script><meta name="viewport" content="width=device-width, initial-scale=1, shrink-to-fit=no"><link href="../deps/bootstrap-5.3.8/bootstrap.min.css" rel="stylesheet"><script src="../deps/bootstrap-5.3.8/bootstrap.bundle.min.js"></script><link href="../deps/font-awesome-6.5.2/css/all.min.css" rel="stylesheet"><link href="../deps/font-awesome-6.5.2/css/v4-shims.min.css" rel="stylesheet"><script src="../deps/headroom-0.11.0/headroom.min.js"></script><script src="../deps/headroom-0.11.0/jQuery.headroom.min.js"></script><script src="../deps/bootstrap-toc-1.0.1/bootstrap-toc.min.js"></script><script src="../deps/clipboard.js-2.0.11/clipboard.min.js"></script><script src="../deps/search-1.0.0/autocomplete.jquery.min.js"></script><script src="../deps/search-1.0.0/fuse.min.js"></script><script src="../deps/search-1.0.0/mark.min.js"></script><!-- pkgdown --><script src="../pkgdown.js"></script><meta property="og:title" content="Package-level imports — TOSCA-package-imports"><meta name="description" content="Import functions for all package functions.
 This file is only used to generate NAMESPACE imports."><meta property="og:description" content="Import functions for all package functions.
 This file is only used to generate NAMESPACE imports."><meta property="og:image" content="https://caravagnalab.github.io/TOSCA/logo.png"></head><body>
     <a href="#main" class="visually-hidden-focusable">Skip to contents</a>

diff --git a/reference/UPN06.html b/reference/UPN06.html
@@ -1,5 +1,5 @@
 <!DOCTYPE html>
-<!-- Generated by pkgdown: do not edit by hand --><html lang="en"><head><meta http-equiv="Content-Type" content="text/html; charset=UTF-8"><meta charset="utf-8"><meta http-equiv="X-UA-Compatible" content="IE=edge"><meta name="viewport" content="width=device-width, initial-scale=1, shrink-to-fit=no"><title>Input data for patient UPN06 — UPN06 • TOSCA</title><!-- favicons --><link rel="icon" type="image/png" sizes="96x96" href="../favicon-96x96.png"><link rel="icon" type="”image/svg+xml”" href="../favicon.svg"><link rel="apple-touch-icon" sizes="180x180" href="../apple-touch-icon.png"><link rel="icon" sizes="any" href="../favicon.ico"><link rel="manifest" href="../site.webmanifest"><script src="../deps/jquery-3.6.0/jquery-3.6.0.min.js"></script><meta name="viewport" content="width=device-width, initial-scale=1, shrink-to-fit=no"><link href="../deps/bootstrap-5.3.1/bootstrap.min.css" rel="stylesheet"><script src="../deps/bootstrap-5.3.1/bootstrap.bundle.min.js"></script><link href="../deps/font-awesome-6.5.2/css/all.min.css" rel="stylesheet"><link href="../deps/font-awesome-6.5.2/css/v4-shims.min.css" rel="stylesheet"><script src="../deps/headroom-0.11.0/headroom.min.js"></script><script src="../deps/headroom-0.11.0/jQuery.headroom.min.js"></script><script src="../deps/bootstrap-toc-1.0.1/bootstrap-toc.min.js"></script><script src="../deps/clipboard.js-2.0.11/clipboard.min.js"></script><script src="../deps/search-1.0.0/autocomplete.jquery.min.js"></script><script src="../deps/search-1.0.0/fuse.min.js"></script><script src="../deps/search-1.0.0/mark.min.js"></script><!-- pkgdown --><script src="../pkgdown.js"></script><meta property="og:title" content="Input data for patient UPN06 — UPN06"><meta name="description" content="Input data for patient UPN06"><meta property="og:description" content="Input data for patient UPN06"><meta property="og:image" content="https://caravagnalab.github.io/TOSCA/logo.png"></head><body>
+<!-- Generated by pkgdown: do not edit by hand --><html lang="en"><head><meta http-equiv="Content-Type" content="text/html; charset=UTF-8"><meta charset="utf-8"><meta http-equiv="X-UA-Compatible" content="IE=edge"><meta name="viewport" content="width=device-width, initial-scale=1, shrink-to-fit=no"><title>Input data for patient UPN06 — UPN06 • TOSCA</title><!-- favicons --><link rel="icon" type="image/png" sizes="96x96" href="../favicon-96x96.png"><link rel="icon" type="”image/svg+xml”" href="../favicon.svg"><link rel="apple-touch-icon" sizes="180x180" href="../apple-touch-icon.png"><link rel="icon" sizes="any" href="../favicon.ico"><link rel="manifest" href="../site.webmanifest"><script src="../deps/jquery-3.6.0/jquery-3.6.0.min.js"></script><meta name="viewport" content="width=device-width, initial-scale=1, shrink-to-fit=no"><link href="../deps/bootstrap-5.3.8/bootstrap.min.css" rel="stylesheet"><script src="../deps/bootstrap-5.3.8/bootstrap.bundle.min.js"></script><link href="../deps/font-awesome-6.5.2/css/all.min.css" rel="stylesheet"><link href="../deps/font-awesome-6.5.2/css/v4-shims.min.css" rel="stylesheet"><script src="../deps/headroom-0.11.0/headroom.min.js"></script><script src="../deps/headroom-0.11.0/jQuery.headroom.min.js"></script><script src="../deps/bootstrap-toc-1.0.1/bootstrap-toc.min.js"></script><script src="../deps/clipboard.js-2.0.11/clipboard.min.js"></script><script src="../deps/search-1.0.0/autocomplete.jquery.min.js"></script><script src="../deps/search-1.0.0/fuse.min.js"></script><script src="../deps/search-1.0.0/mark.min.js"></script><!-- pkgdown --><script src="../pkgdown.js"></script><meta property="og:title" content="Input data for patient UPN06 — UPN06"><meta name="description" content="Input data for patient UPN06"><meta property="og:description" content="Input data for patient UPN06"><meta property="og:image" content="https://caravagnalab.github.io/TOSCA/logo.png"></head><body>
     <a href="#main" class="visually-hidden-focusable">Skip to contents</a>
 
 